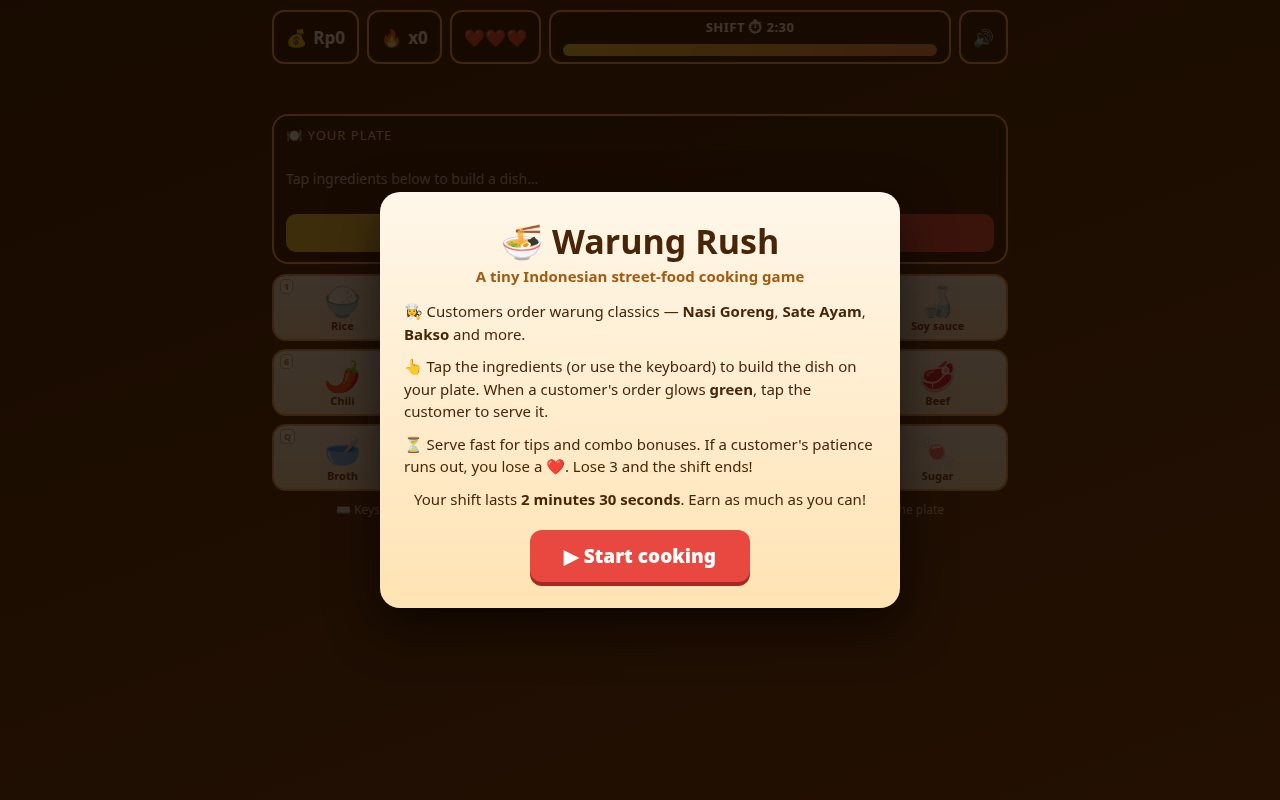
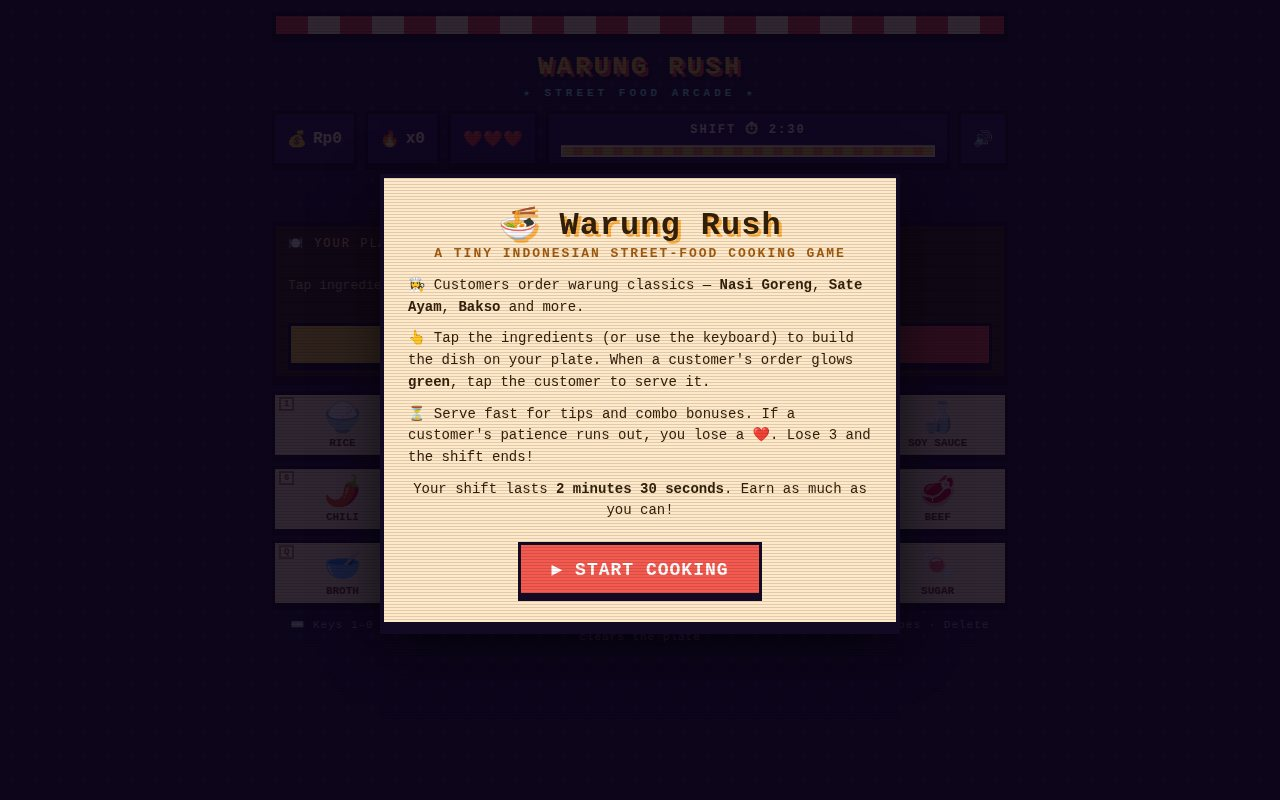
Restyle to retro pixel-art: warung awning and sign, chunky 8-bit panels, segmented bars, CRT scanlines; fresh screenshots

diff --git a/game/style.css b/game/style.css
@@ -1,99 +1,126 @@
-/* Warung Rush — styles */
+/* Warung Rush — retro pixel-art theme.
+   Hard edges, chunky borders, flat colours, offset shadows: an 8-bit warung. */
 * { margin:0; padding:0; box-sizing:border-box; -webkit-tap-highlight-color:transparent; }
 html,body { height:100%; }
 body {
-  font-family:"Segoe UI", system-ui, -apple-system, Arial, sans-serif;
-  background:linear-gradient(160deg,#2b1503 0%,#4a2408 45%,#6b3410 100%);
-  color:#fff7ea; overflow-x:hidden; min-height:100%;
+  font-family:ui-monospace, "Cascadia Mono", "Courier New", monospace;
+  background:#1b1035;
+  background-image:
+    radial-gradient(#2c1a56 15%, transparent 16%),
+    radial-gradient(#241547 15%, transparent 16%);
+  background-size:24px 24px;
+  background-position:0 0, 12px 12px;
+  color:#ffe9c9; overflow-x:hidden; min-height:100%;
   display:flex; flex-direction:column; align-items:center;
 }
-#app { width:100%; max-width:760px; padding:10px 12px 18px; display:flex; flex-direction:column; gap:10px; }
+/* faint CRT scanlines over everything */
+body::after {
+  content:""; position:fixed; inset:0; pointer-events:none; z-index:99;
+  background:repeating-linear-gradient(0deg, rgba(0,0,0,.13) 0 1px, transparent 1px 3px);
+}
+#app { width:100%; max-width:760px; padding:12px 12px 20px; display:flex; flex-direction:column; gap:12px; }
+
+/* ---------- Pixel awning (warung tent) ---------- */
+#awning {
+  height:26px; border:4px solid #120a24;
+  background:repeating-linear-gradient(90deg,#e8483f 0 32px,#ffe9c9 32px 64px);
+  box-shadow:0 4px 0 #120a24;
+}
+#sign {
+  text-align:center; font-weight:900; font-size:26px; letter-spacing:3px; color:#ffd23f;
+  text-shadow:3px 3px 0 #e8483f, 6px 6px 0 #120a24; margin-top:2px;
+}
+#sign small { display:block; font-size:11px; letter-spacing:4px; color:#8be0ff; text-shadow:2px 2px 0 #120a24; margin-top:4px; }
 
 /* ---------- HUD ---------- */
 #hud { display:flex; gap:8px; align-items:stretch; flex-wrap:wrap; }
 .hudbox {
-  background:rgba(0,0,0,.35); border:2px solid #ffb347; border-radius:12px;
-  padding:6px 12px; font-weight:700; font-size:17px; display:flex; align-items:center; gap:6px;
+  background:#2c1a56; border:3px solid #120a24; box-shadow:0 4px 0 #120a24;
+  padding:6px 12px; font-weight:900; font-size:16px; display:flex; align-items:center; gap:6px; color:#ffe9c9;
 }
 #timewrap { flex:1 1 160px; flex-direction:column; align-items:stretch; gap:4px; }
-#timebar-outer { height:12px; background:#3a2410; border-radius:6px; overflow:hidden; }
-#timebar { height:100%; width:100%; background:linear-gradient(90deg,#ffd23f,#ff8c42); transition:width .2s linear; }
-#timelabel { font-size:13px; text-align:center; letter-spacing:.5px; }
+#timebar-outer { height:12px; background:#120a24; border:2px solid #ffe9c9; overflow:hidden; }
+#timebar { height:100%; width:100%; background:repeating-linear-gradient(90deg,#ffd23f 0 10px,#ff8c42 10px 20px); transition:width .2s linear; }
+#timelabel { font-size:12px; text-align:center; letter-spacing:2px; }
 #mutebtn { cursor:pointer; user-select:none; }
 
 /* ---------- Customers ---------- */
 #customers { display:flex; gap:10px; }
 .cust {
-  flex:1; background:linear-gradient(180deg,#fff7ea,#ffe3b3); color:#4a2408; border-radius:16px;
-  padding:10px 8px 12px; min-height:172px; position:relative; border:3px solid transparent;
-  display:flex; flex-direction:column; align-items:center; gap:5px; transition:transform .1s, border-color .15s, box-shadow .15s;
+  flex:1; background:#ffe9c9; color:#33200a; border:4px solid #120a24;
+  box-shadow:0 5px 0 #120a24;
+  padding:10px 8px 12px; min-height:172px; position:relative;
+  display:flex; flex-direction:column; align-items:center; gap:5px; transition:transform .1s;
 }
-.cust.empty { background:rgba(255,255,255,.08); color:#d9c7a7; border:2px dashed rgba(255,179,71,.4); justify-content:center; font-size:14px; text-align:center; }
-.cust.ready { border-color:#37d67a; box-shadow:0 0 18px rgba(55,214,122,.75); cursor:pointer; animation:pulse 0.7s infinite alternate; }
-@keyframes pulse { from{ transform:scale(1);} to{ transform:scale(1.03);} }
-.cust.shake { animation:shake .3s; }
+.cust.empty { background:#241547; color:#9d8bc7; border:4px dashed #57448f; box-shadow:none; justify-content:center; font-size:13px; text-align:center; }
+.cust.ready { border-color:#1d7a3a; box-shadow:0 0 0 3px #37d67a, 0 5px 0 #120a24; cursor:pointer; animation:pulse 0.5s steps(2) infinite alternate; }
+@keyframes pulse { from{ transform:translateY(0);} to{ transform:translateY(-4px);} }
+.cust.shake { animation:shake .3s steps(4); }
 @keyframes shake { 0%,100%{transform:translateX(0);} 25%{transform:translateX(-5px);} 75%{transform:translateX(5px);} }
-.face { font-size:44px; line-height:1; }
-.dishname { font-weight:800; font-size:16px; text-align:center; }
+.face { font-size:44px; line-height:1; image-rendering:pixelated; }
+.dishname { font-weight:900; font-size:15px; text-align:center; text-transform:uppercase; letter-spacing:.5px; }
 .order { display:flex; flex-wrap:wrap; gap:3px; justify-content:center; }
-.order .oi { font-size:21px; width:30px; height:30px; display:flex; align-items:center; justify-content:center; background:#fff; border-radius:8px; border:2px solid #e0c491; filter:grayscale(1) opacity(.45); }
-.order .oi.got { filter:none; border-color:#37d67a; background:#eafff1; }
-.price { font-size:13px; font-weight:700; color:#8a5a00; }
-.patience { width:100%; height:9px; background:#e8d5ae; border-radius:5px; overflow:hidden; margin-top:auto; }
-.patience > div { height:100%; background:#37d67a; transition:width .2s linear; }
+.order .oi { font-size:20px; width:30px; height:30px; display:flex; align-items:center; justify-content:center; background:#fff8ea; border:3px solid #b98a44; filter:grayscale(1) opacity(.4); }
+.order .oi.got { filter:none; border-color:#1d7a3a; background:#d9ffd9; }
+.price { font-size:13px; font-weight:900; color:#a35b12; }
+.patience { width:100%; height:10px; background:#e3d0a4; border:2px solid #120a24; overflow:hidden; margin-top:auto; }
+.patience > div { height:100%; transition:width .2s linear; }
 
 /* ---------- Plate ---------- */
-#platezone { background:rgba(0,0,0,.3); border:2px solid #ffb347; border-radius:16px; padding:10px 12px; }
-#platelabel { font-size:13px; letter-spacing:1px; text-transform:uppercase; color:#ffcf87; margin-bottom:6px; display:flex; justify-content:space-between; }
+#platezone { background:#3a2410; border:4px solid #120a24; box-shadow:0 5px 0 #120a24; padding:10px 12px;
+  background-image:repeating-linear-gradient(0deg, rgba(0,0,0,.18) 0 3px, transparent 3px 12px); }
+#platelabel { font-size:12px; letter-spacing:2px; text-transform:uppercase; color:#ffcf87; margin-bottom:6px; display:flex; justify-content:space-between; }
 #plate { min-height:56px; display:flex; flex-wrap:wrap; gap:6px; align-items:center; }
-#plate .pi { font-size:30px; background:#fff7ea; border-radius:10px; width:48px; height:48px; display:flex; align-items:center; justify-content:center; }
-#plate .hint { color:#d9c7a7; font-size:14px; }
-#platebtns { display:flex; gap:8px; margin-top:8px; }
-.pbtn { flex:1; padding:9px; border:none; border-radius:10px; font-size:15px; font-weight:800; cursor:pointer; font-family:inherit; }
-#undobtn { background:#ffd23f; color:#4a2408; }
+#plate .pi { font-size:30px; background:#fff8ea; border:3px solid #120a24; width:48px; height:48px; display:flex; align-items:center; justify-content:center; }
+#plate .hint { color:#cbb27f; font-size:13px; }
+#platebtns { display:flex; gap:8px; margin-top:10px; }
+.pbtn { flex:1; padding:10px; border:3px solid #120a24; font-size:14px; font-weight:900; cursor:pointer; font-family:inherit; text-transform:uppercase; letter-spacing:1px; box-shadow:0 4px 0 #120a24; }
+#undobtn { background:#ffd23f; color:#33200a; }
 #trashbtn { background:#e8483f; color:#fff; }
-.pbtn:active { transform:scale(.97); }
+.pbtn:active { transform:translateY(3px); box-shadow:0 1px 0 #120a24; }
 .pbtn:disabled { opacity:.4; cursor:default; }
 
 /* ---------- Ingredients ---------- */
 #tray { display:grid; grid-template-columns:repeat(5,1fr); gap:8px; }
 .ing {
-  background:linear-gradient(180deg,#fff7ea,#ffe9c4); border:2px solid #e0a458; border-radius:14px;
+  background:#ffe9c9; border:3px solid #120a24; box-shadow:0 4px 0 #120a24;
   padding:8px 2px 6px; cursor:pointer; display:flex; flex-direction:column; align-items:center; gap:1px;
   font-family:inherit; transition:transform .05s, opacity .15s; position:relative;
 }
 .ing .e { font-size:30px; line-height:1.1; }
-.ing .n { font-size:11px; font-weight:700; color:#6b3410; }
+.ing .n { font-size:11px; font-weight:900; color:#6b3410; text-transform:uppercase; }
 .ing .k {
-  position:absolute; top:3px; left:6px; font-size:9px; font-weight:800; color:#b98a44;
-  border:1px solid #d9b878; border-radius:4px; padding:0 3px; background:rgba(255,255,255,.7);
+  position:absolute; top:2px; left:4px; font-size:9px; font-weight:900; color:#a35b12;
+  border:2px solid #b98a44; padding:0 3px; background:#fff8ea;
 }
-.ing:active { transform:scale(.93); }
-.ing.used { opacity:.35; filter:grayscale(.7); }
-#keyhints { text-align:center; font-size:12px; color:#d9c7a7; }
+.ing:active { transform:translateY(3px); box-shadow:0 1px 0 #120a24; }
+.ing.used { opacity:.35; filter:grayscale(.8); }
+#keyhints { text-align:center; font-size:11px; color:#9d8bc7; letter-spacing:1px; }
 
 /* ---------- Floating score ---------- */
-.floaty { position:fixed; font-weight:900; font-size:22px; color:#ffd23f; text-shadow:0 2px 6px #000; pointer-events:none; z-index:60; animation:floatup 1s ease-out forwards; }
+.floaty { position:fixed; font-weight:900; font-size:22px; color:#ffd23f; text-shadow:2px 2px 0 #120a24; pointer-events:none; z-index:60; animation:floatup 1s steps(8) forwards; }
 @keyframes floatup { from{ opacity:1; transform:translateY(0);} to{ opacity:0; transform:translateY(-56px);} }
 
 /* ---------- Overlays ---------- */
-.overlay { position:fixed; inset:0; background:rgba(20,8,0,.82); display:flex; align-items:center; justify-content:center; z-index:50; padding:16px; }
-.card { background:linear-gradient(180deg,#fff7ea,#ffe3b3); color:#4a2408; border-radius:20px; padding:26px 24px; max-width:520px; width:100%; text-align:center; box-shadow:0 18px 50px rgba(0,0,0,.6); }
-.card h1 { font-size:34px; margin-bottom:2px; }
-.card h2 { font-size:15px; color:#a35b12; font-weight:700; margin-bottom:14px; }
-.card p { font-size:15px; line-height:1.5; margin-bottom:10px; text-align:left; }
+.overlay { position:fixed; inset:0; background:rgba(10,4,24,.85); display:flex; align-items:center; justify-content:center; z-index:50; padding:16px; }
+.card { background:#ffe9c9; color:#33200a; border:4px solid #120a24; box-shadow:0 8px 0 #120a24, 0 18px 50px rgba(0,0,0,.6); padding:26px 24px; max-width:520px; width:100%; text-align:center; }
+.card h1 { font-size:32px; margin-bottom:2px; letter-spacing:1px; text-shadow:3px 3px 0 #ffb347; }
+.card h2 { font-size:13px; color:#a35b12; font-weight:900; margin-bottom:14px; text-transform:uppercase; letter-spacing:2px; }
+.card p { font-size:14px; line-height:1.55; margin-bottom:10px; text-align:left; }
 .card p.center { text-align:center; }
-.bigbtn { background:#e8483f; color:#fff; border:none; font-size:19px; font-weight:900; padding:13px 34px; border-radius:12px; cursor:pointer; margin-top:10px; box-shadow:0 4px 0 #a52a23; font-family:inherit; }
-.bigbtn:active { transform:translateY(3px); box-shadow:0 1px 0 #a52a23; }
+.bigbtn { background:#e8483f; color:#fff; border:3px solid #120a24; font-size:18px; font-weight:900; padding:13px 30px; cursor:pointer; margin-top:10px; box-shadow:0 5px 0 #120a24; font-family:inherit; text-transform:uppercase; letter-spacing:1px; animation:blink 1.1s steps(2) infinite; }
+@keyframes blink { 50% { background:#ff6b5e; } }
+.bigbtn:active { transform:translateY(4px); box-shadow:0 1px 0 #120a24; }
 .stats { display:grid; grid-template-columns:1fr 1fr; gap:8px; margin:14px 0 4px; }
-.stat { background:#fff; border:2px solid #e8cf9e; border-radius:12px; padding:10px; }
+.stat { background:#fff8ea; border:3px solid #120a24; padding:10px; }
 .stat .v { font-size:22px; font-weight:900; }
-.stat .k { font-size:12px; color:#a35b12; font-weight:700; text-transform:uppercase; letter-spacing:.5px; }
-#stars { font-size:40px; letter-spacing:6px; margin:6px 0 0; }
+.stat .k { font-size:11px; color:#a35b12; font-weight:900; text-transform:uppercase; letter-spacing:1px; }
+#stars { font-size:40px; letter-spacing:6px; margin:6px 0 0; color:#ffb300; text-shadow:2px 2px 0 #120a24; }
 .hidden { display:none !important; }
-#msg { min-height:20px; text-align:center; font-weight:700; color:#ffcf87; font-size:15px; }
+#msg { min-height:20px; text-align:center; font-weight:900; color:#ffd23f; font-size:14px; text-shadow:2px 2px 0 #120a24; }
 @media (max-width:520px) {
   .face { font-size:36px; } .cust { min-height:158px; }
-  .ing .e { font-size:25px; } .hudbox { font-size:15px; padding:5px 9px; }
+  .ing .e { font-size:25px; } .hudbox { font-size:14px; padding:5px 9px; }
   .ing .k { display:none; } #keyhints { display:none; }
+  #sign { font-size:20px; }
 }

diff --git a/game/index.html b/game/index.html
@@ -8,6 +8,8 @@
 </head>
 <body>
 <div id="app">
+  <div id="awning"></div>
+  <div id="sign">WARUNG RUSH<small>★ STREET FOOD ARCADE ★</small></div>
   <div id="hud">
     <div class="hudbox">💰 <span id="score">Rp0</span></div>
     <div class="hudbox">🔥 <span id="combo">x0</span></div>
